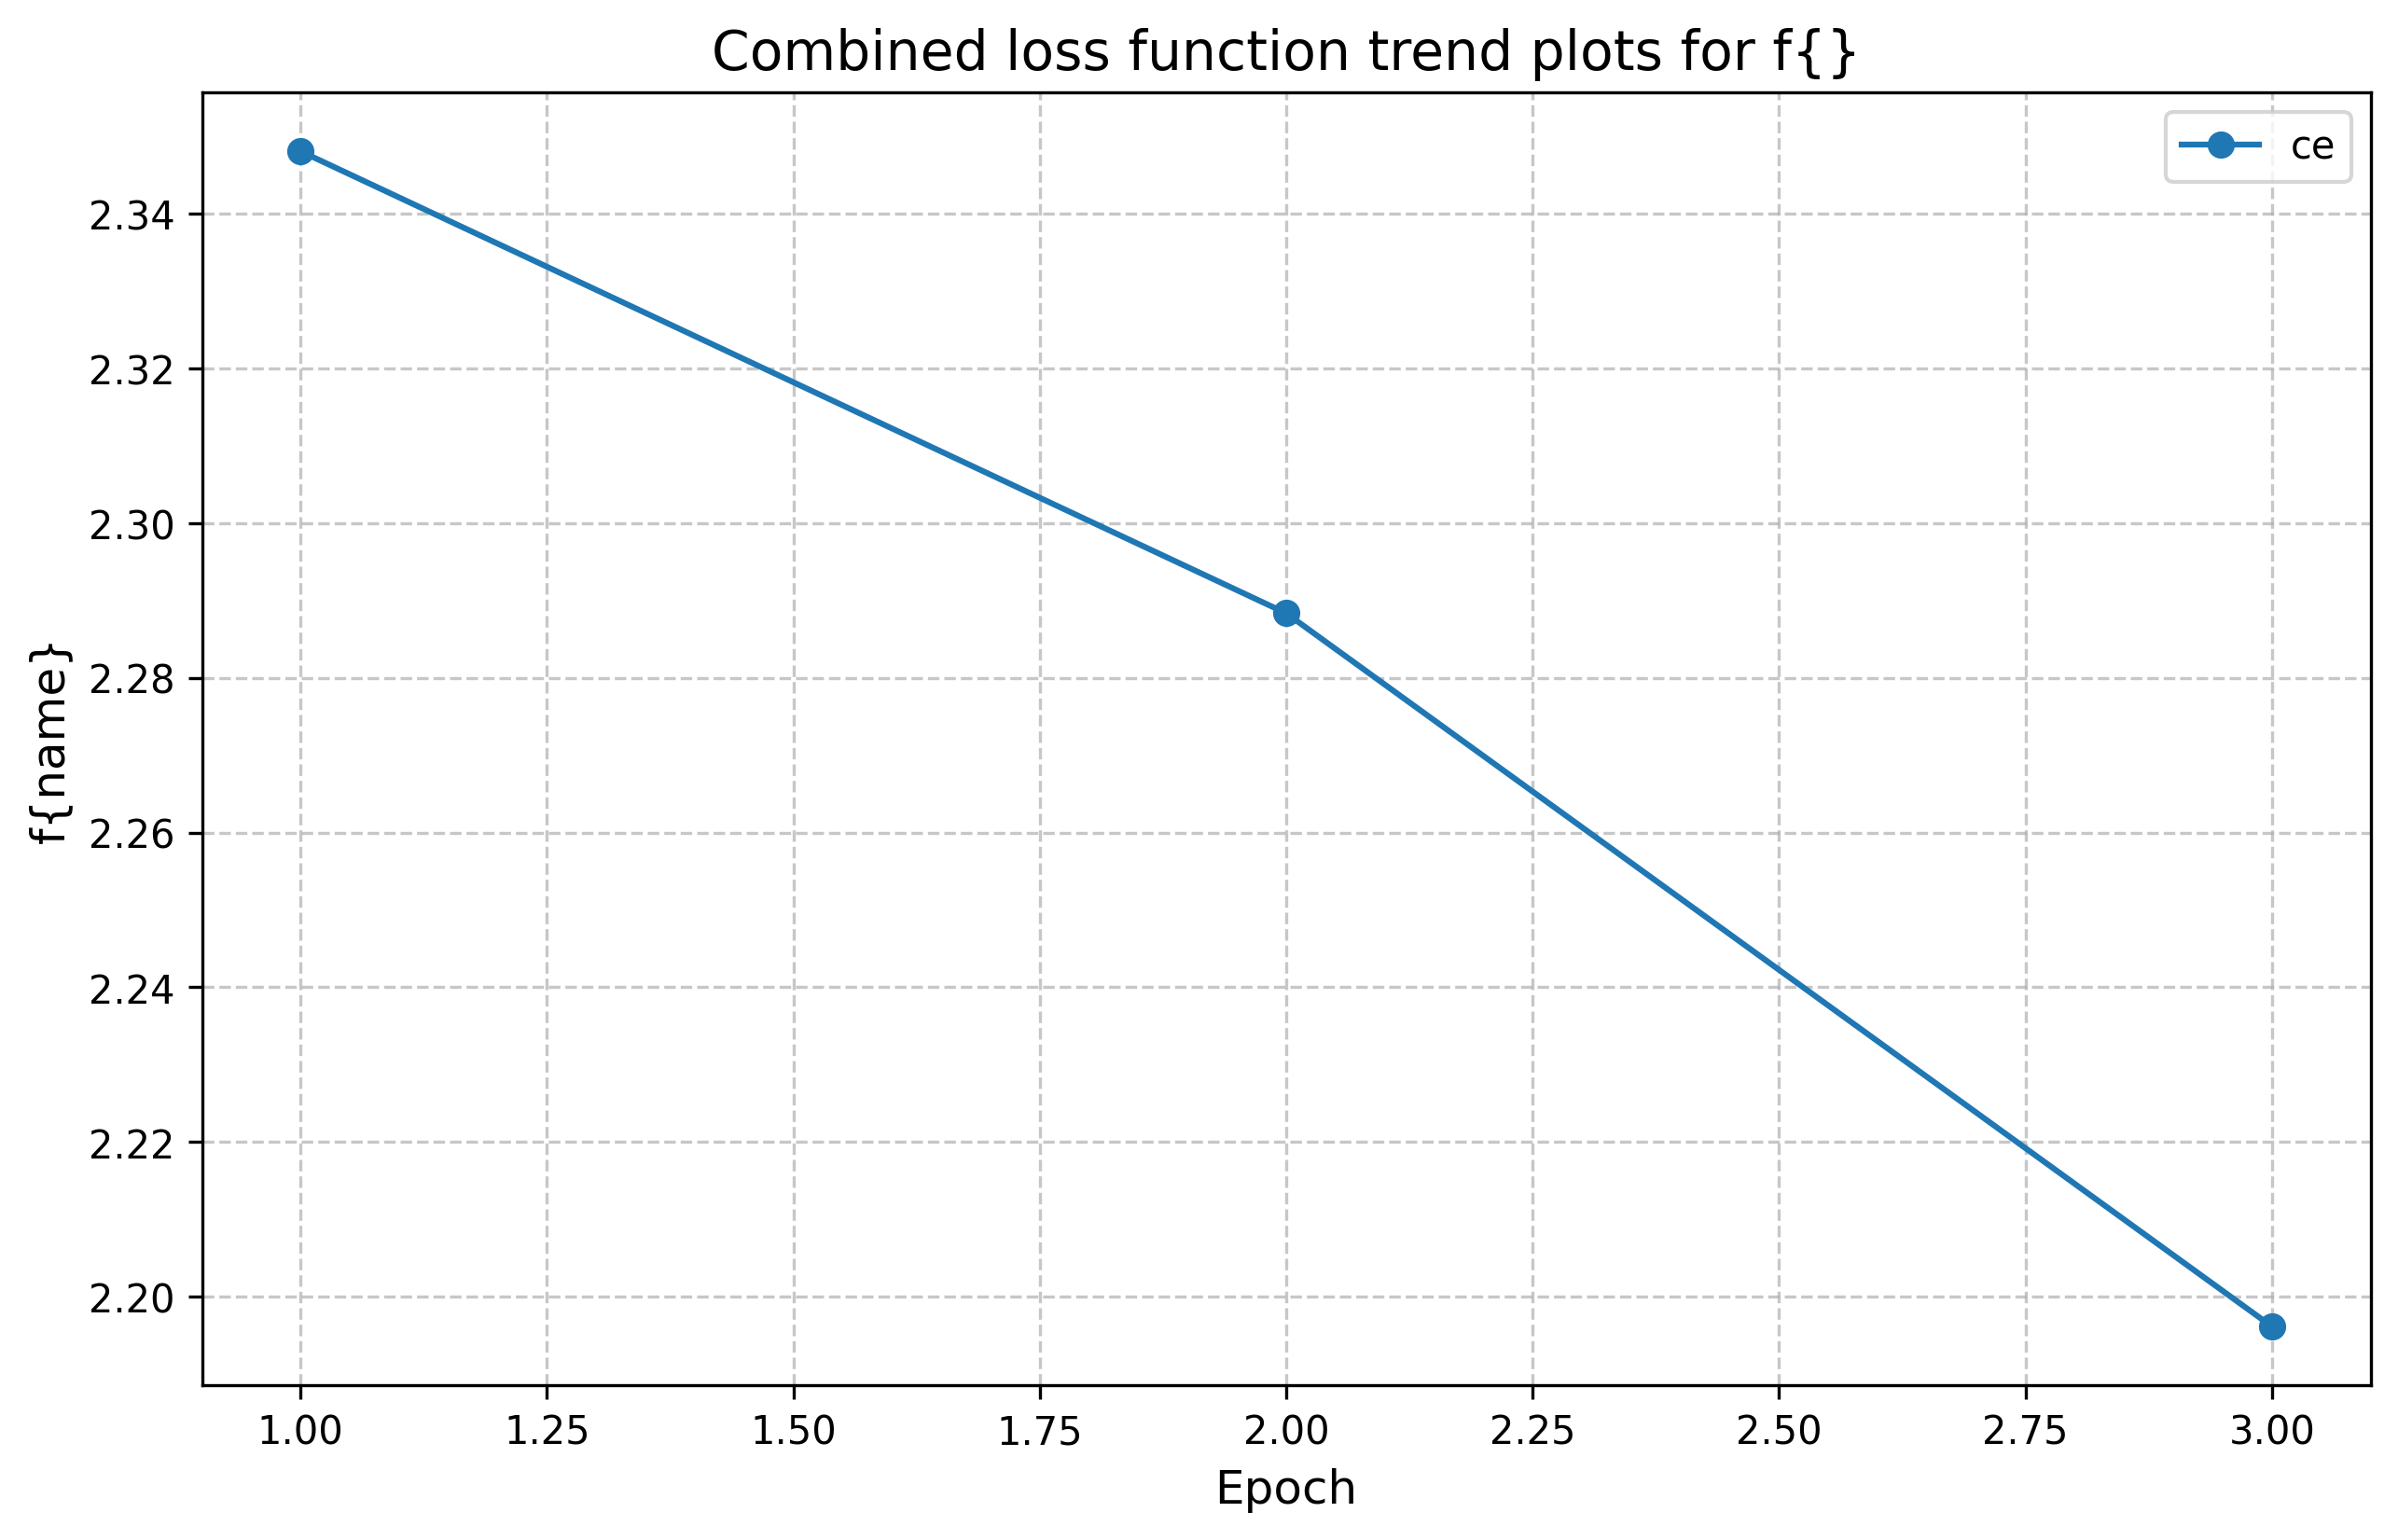
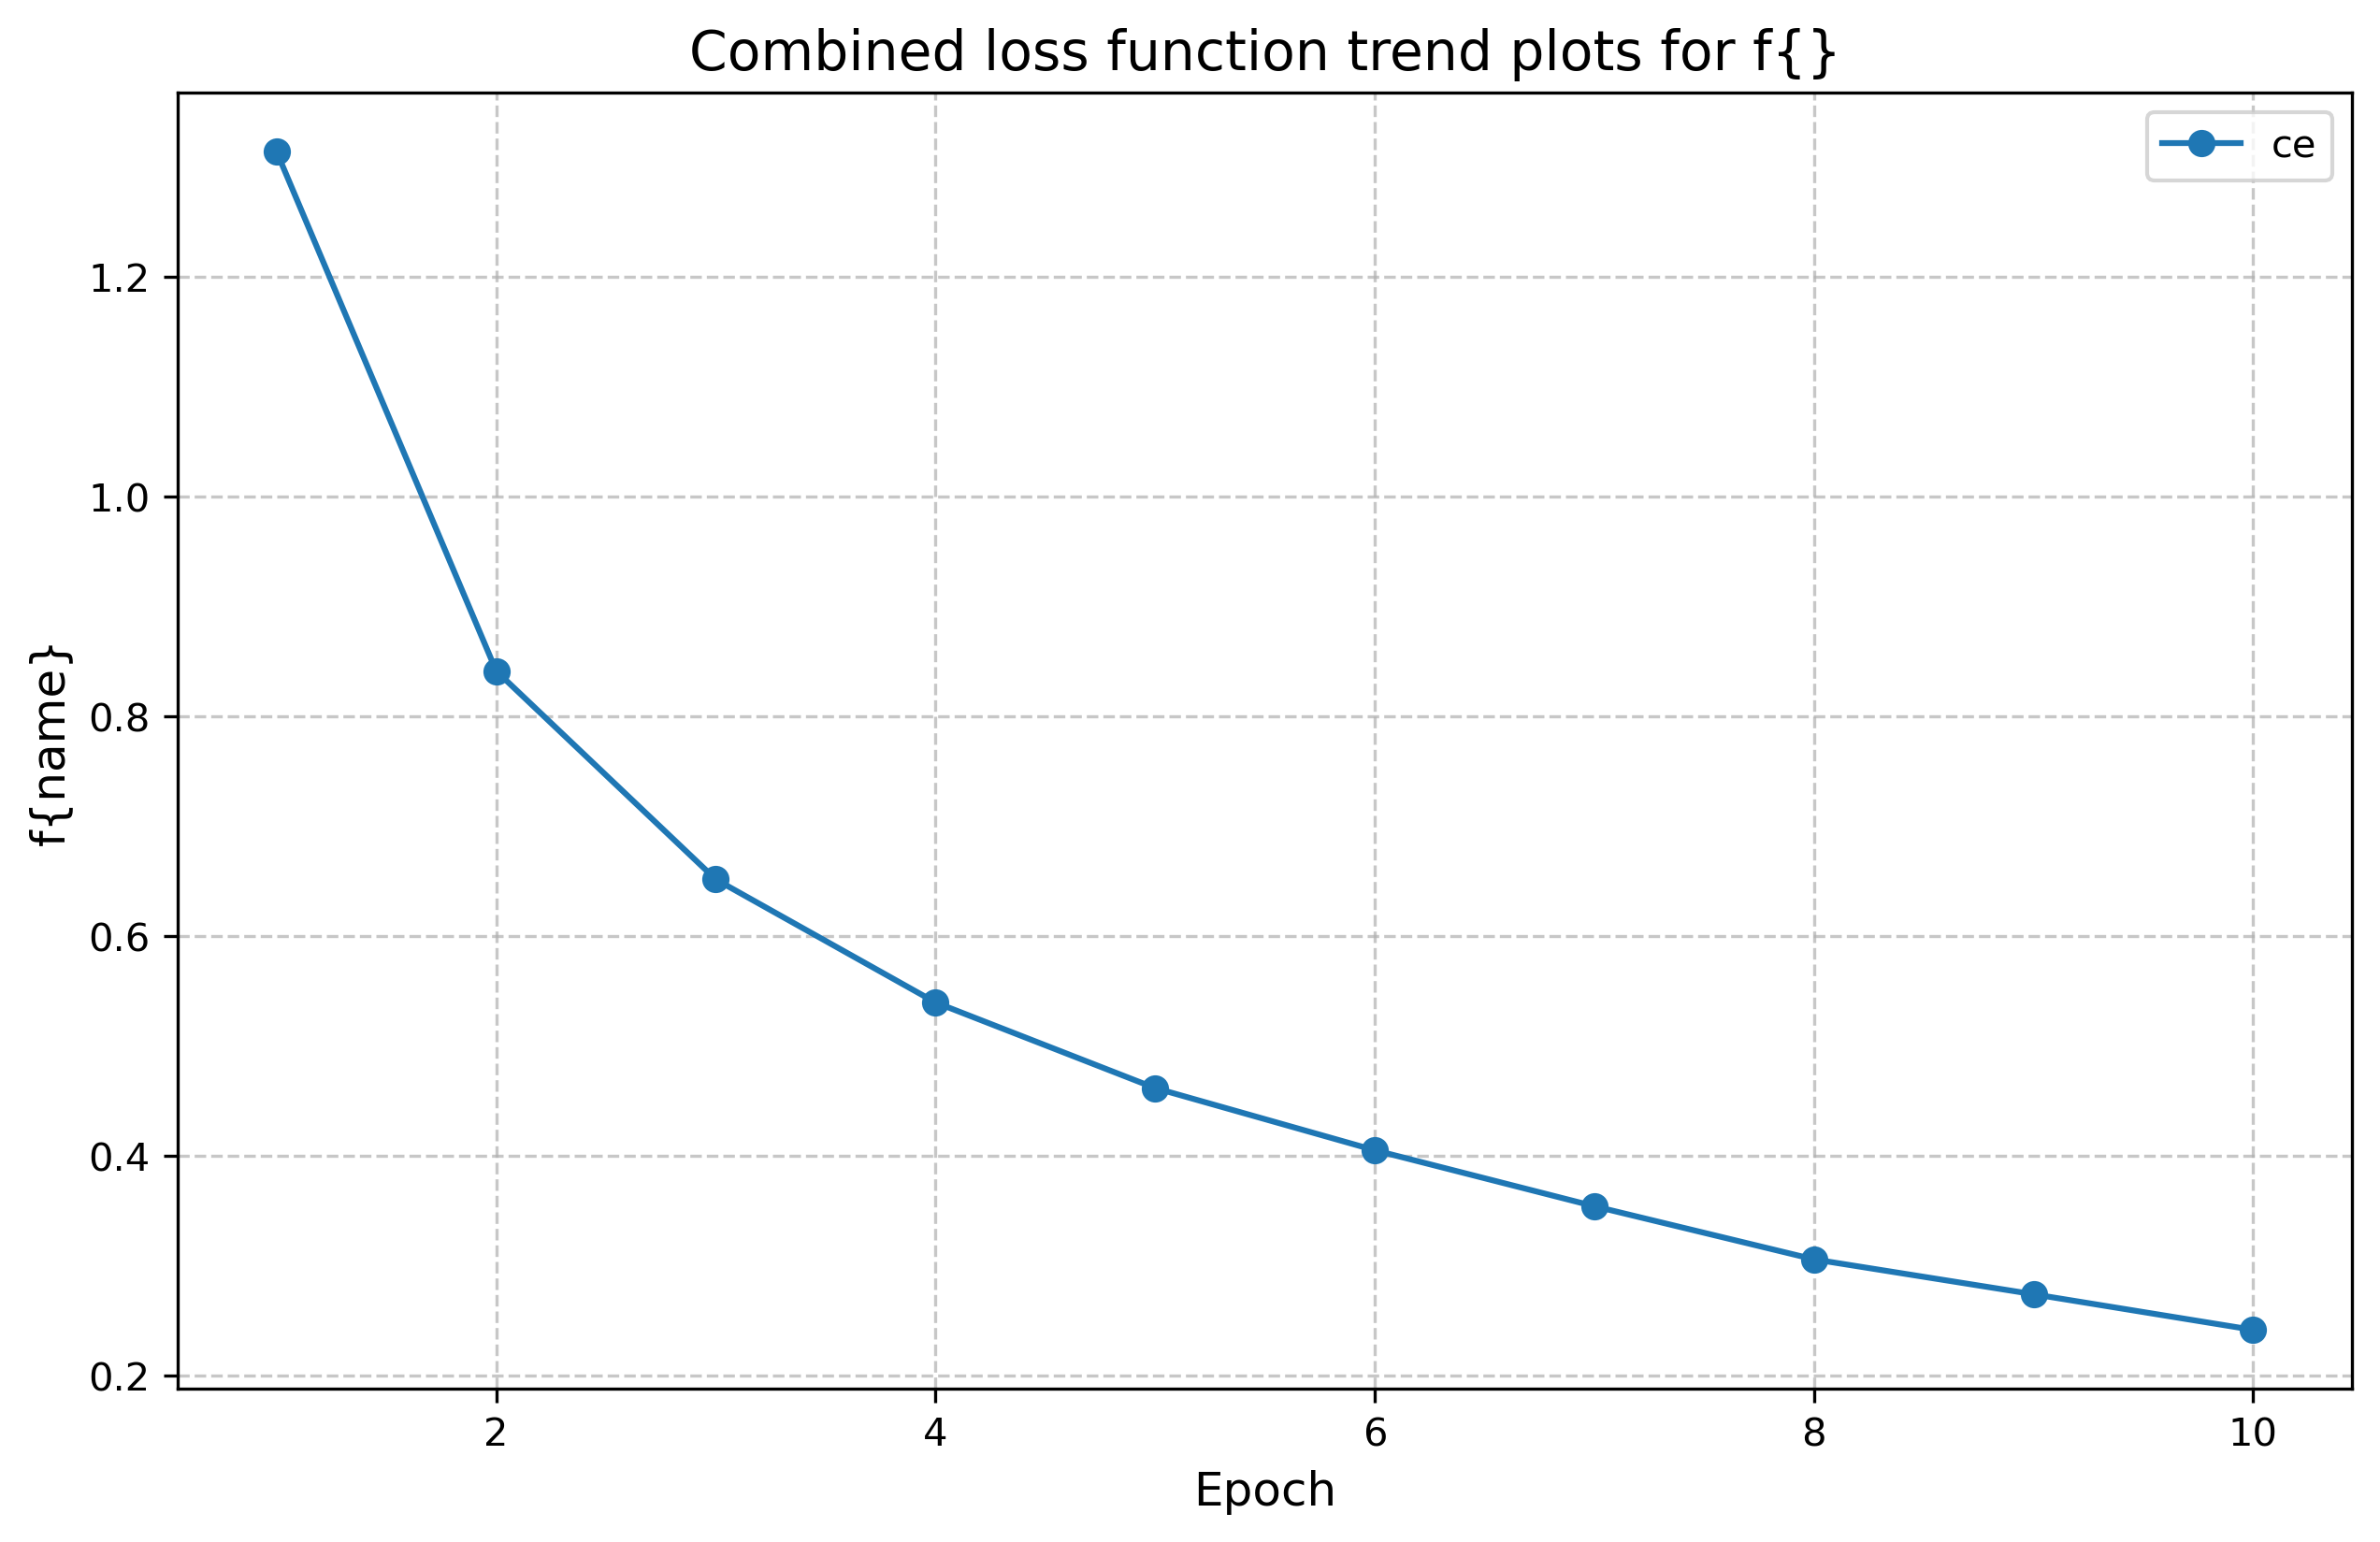
After Web 6 May meeting

diff --git a/plotter.py b/plotter.py
@@ -27,3 +27,7 @@ def results_plotter(path, name):
     plt.legend()
     plt.savefig(f'plots/{name}.png', dpi=300, bbox_inches='tight')
     plt.show()    
+
+if __name__ == "__main__":
+    results_plotter("./archived_full_10epochs/accuracies.csv", "accuracies")
+    results_plotter("./archived_full_10epochs/training_losses.csv", "training_losses")

diff --git a/training_plan.md b/training_plan.md
@@ -1,0 +1,28 @@
+
+For each run with these seeds: 45, 2, 255, 18, 33
+Epochs: 20
+
+Balanced experiments: (Ryan)
+- Ce
+- Focal Loss
+- Label Smoothing
+
+Imbalanced:
+- CE (Libby)
+- Weighted CE (Libby)
+- Label Smoothing (Libby)
+- Focal Loss (Oliver)
+- Class Balanced (Yuri)
+
+
+
+Folder structure:
+
+    Balanced
+        - Ce
+            - Seed 45
+            - Seed 2
+        - Focal Loss
+        - Label Smoothing
+    Imbalanced
+        - Ce